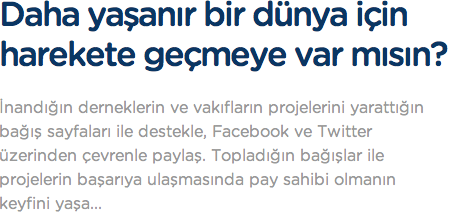
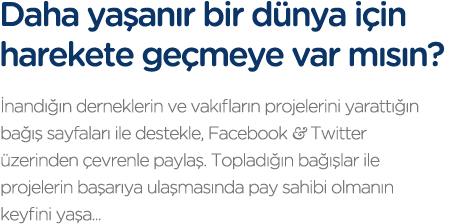
updates call to action style on the homepage

diff --git a/public/stylesheets/page.css b/public/stylesheets/page.css
@@ -141,12 +141,21 @@
 
 /* right column contains desc */
 .pf-desc{
+
 }
+
 
 .pfd-inner{
   margin-left: 30px;
+  background: url('images/cta-anasayfa.png') 0 0 no-repeat;
+  padding-top: 254px;
+  width: 449px;
 }
 
+.pf-desc h1,
+.pf-desc p{
+  display: none;
+}
 
 .pf-desc h1{
   line-height: 1.2;

diff --git a/public/stylesheets/style.css b/public/stylesheets/style.css
@@ -585,7 +585,7 @@ a:hover{ text-decoration: underline; }
 h1, h2, h3, h4, h5, h6 {
   color: #0a3663;
   margin-bottom: 15px;
-  font-family: "MuseoSans500", "Helvetica Neue", Helvetica, Arial, sans-serif;
+  font-family: "Helvetica Neue", Helvetica, Arial, sans-serif;
 }
 
 h1{
